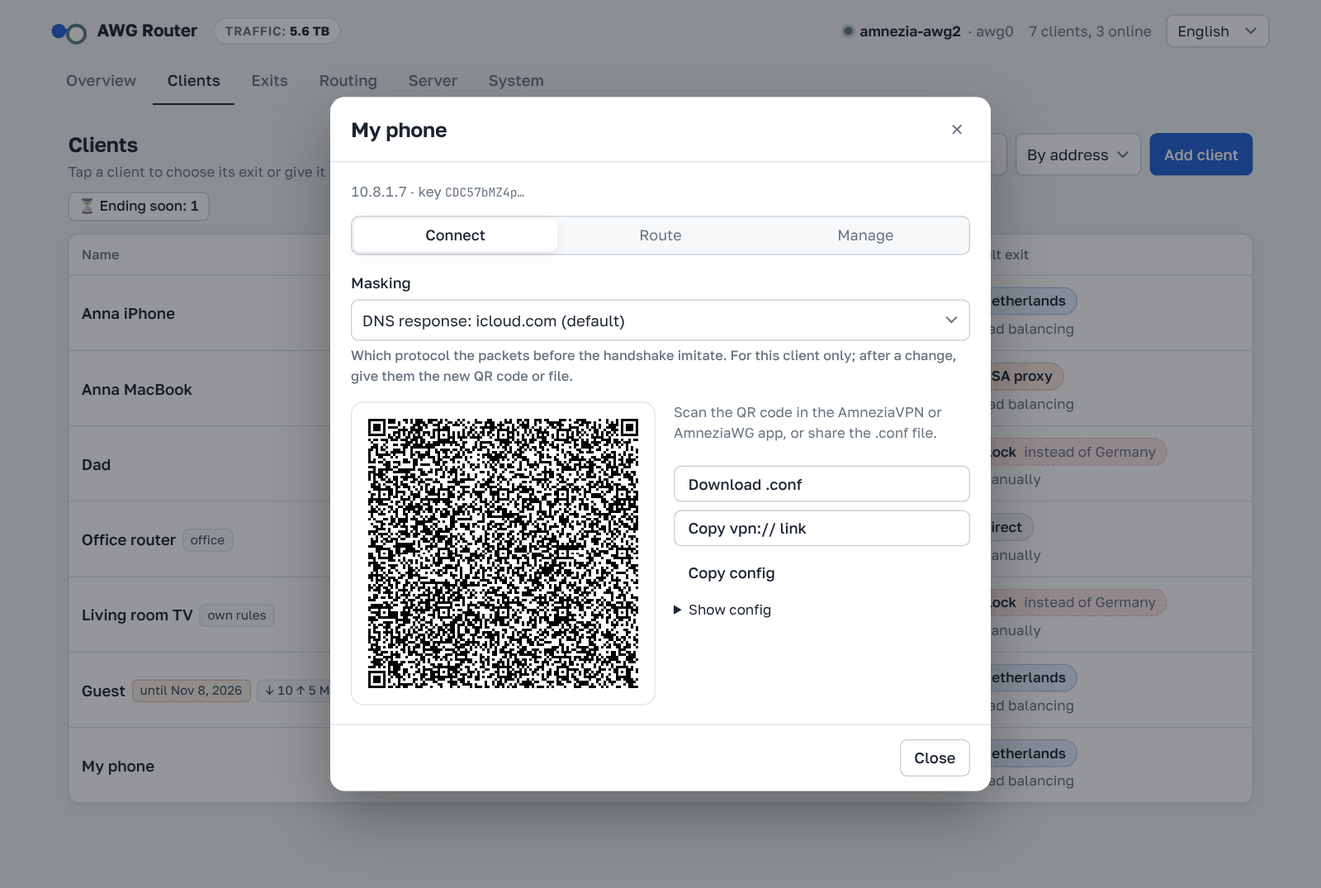
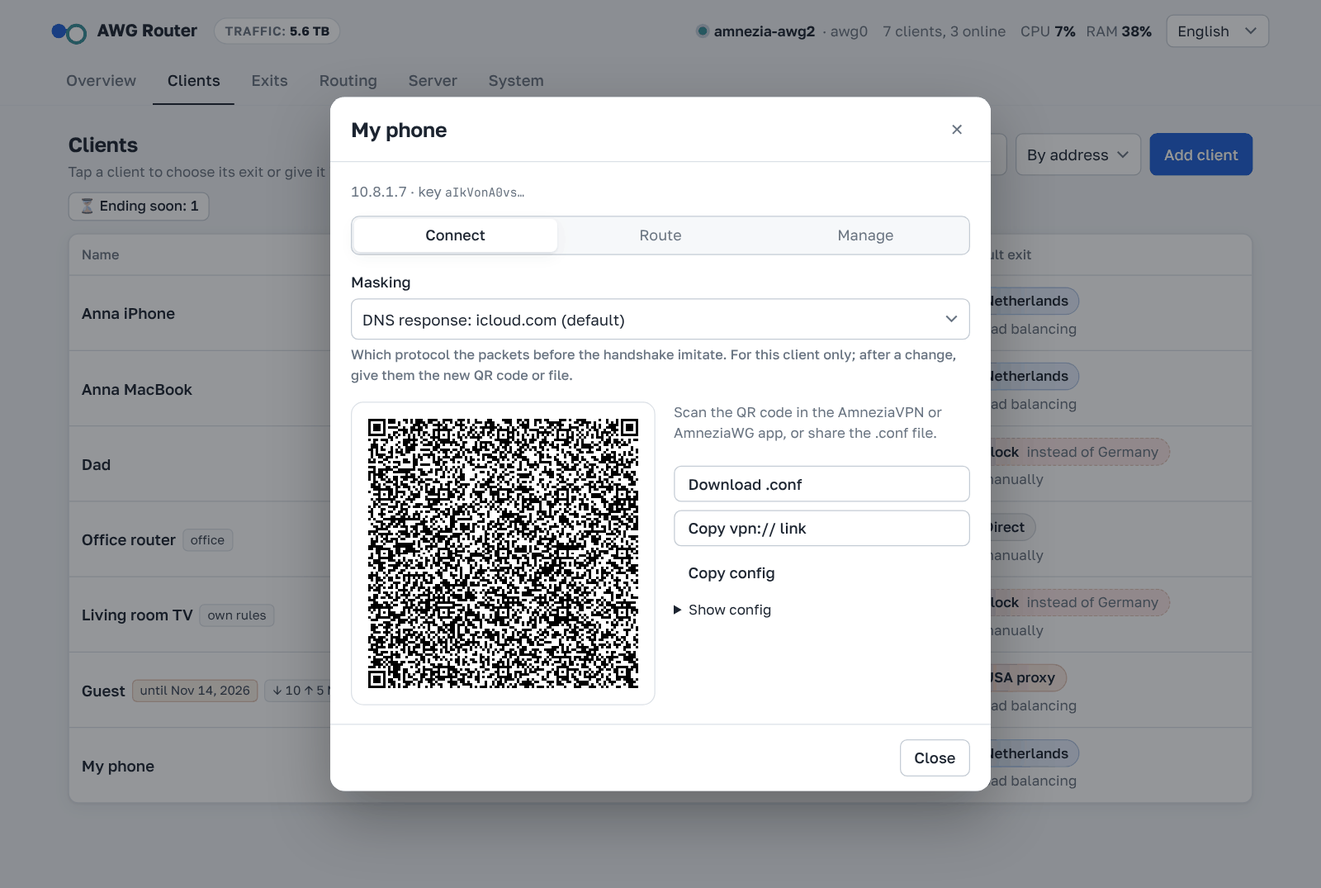
Status line: server CPU and memory load (1.20.0)
- hostnet.CpuMeter: CPU load between two reads of /proc/stat, not more
  often than MIN_GAP; hostnet.system_view adds cores, load average and
  memory. /api/state gets a small "system" entry (fixed numbers in demo).
- The status line shows CPU and RAM, 90% and above highlighted, details in
  the hint; texts in 4 languages.
- README screenshots and the install GIF retaken (the header changed).

diff --git a/app/static/i18n.js b/app/static/i18n.js
@@ -16,7 +16,9 @@ const I18N = {
     "tab.overview": "Обзор", "tab.clients": "Клиенты", "tab.exits": "Выходы",
     "tab.routing": "Маршрутизация", "tab.lists": "Списки", "tab.system": "Система",
     "n.clients": { one: "{n} клиент", few: "{n} клиента", many: "{n} клиентов", other: "{n} клиента" },
-    "status.online": "{n} в сети", "status.traffic": "ТРАФИК", "status.traffic_hint": "Через сервер прошло с момента установки панели",
+    "status.online": "{n} в сети", "status.traffic": "ТРАФИК", "status.traffic_hint": "Через сервер прошло с момента установки панели", "status.cpu": "ЦП", "status.ram": "ОЗУ",
+    "status.cpu_hint": "Загрузка процессора сервера. Ядер: {cores}, средняя нагрузка за 1, 5 и 15 минут: {load}",
+    "status.ram_hint": "Память сервера: занято {used} из {total}",
     "status.no_target": "Сервер Amnezia не найден", "panel.offline": "Нет связи с панелью: {e}",
     "banner.demo_title": "Демо-режим.",
     "banner.demo": "Команды не выполняются, клиенты и туннели вымышленные. Уберите {flag}, чтобы панель управляла сервером.",
@@ -177,7 +179,9 @@ const I18N = {
     "tab.overview": "Overview", "tab.clients": "Clients", "tab.exits": "Exits",
     "tab.routing": "Routing", "tab.lists": "Lists", "tab.system": "System",
     "n.clients": { one: "{n} client", other: "{n} clients" },
-    "status.online": "{n} online", "status.traffic": "TRAFFIC", "status.traffic_hint": "Passed through the server since the panel was installed",
+    "status.online": "{n} online", "status.traffic": "TRAFFIC", "status.traffic_hint": "Passed through the server since the panel was installed", "status.cpu": "CPU", "status.ram": "RAM",
+    "status.cpu_hint": "Server CPU load. Cores: {cores}; load average over 1, 5 and 15 minutes: {load}",
+    "status.ram_hint": "Server memory: {used} of {total} in use",
     "status.no_target": "Amnezia server not found", "panel.offline": "Can't reach the panel: {e}",
     "banner.demo_title": "Demo mode.",
     "banner.demo": "Nothing is executed; clients and tunnels are made up. Remove {flag} to let the panel manage the server.",
@@ -337,7 +341,9 @@ const I18N = {
     "tab.overview": "概览", "tab.clients": "客户端", "tab.exits": "出口",
     "tab.routing": "路由", "tab.lists": "列表", "tab.system": "系统",
     "n.clients": { other: "{n} 个客户端" },
-    "status.online": "{n} 个在线", "status.traffic": "流量", "status.traffic_hint": "自安装面板以来经过服务器的流量",
+    "status.online": "{n} 个在线", "status.traffic": "流量", "status.traffic_hint": "自安装面板以来经过服务器的流量", "status.cpu": "CPU", "status.ram": "内存",
+    "status.cpu_hint": "服务器 CPU 负载。核心数：{cores}；1、5、15 分钟平均负载：{load}",
+    "status.ram_hint": "服务器内存：已用 {used}，共 {total}",
     "status.no_target": "未找到 Amnezia 服务器", "panel.offline": "无法连接到面板：{e}",
     "banner.demo_title": "演示模式。",
     "banner.demo": "不会执行任何命令，客户端和隧道均为虚构。删除 {flag} 即可让面板管理服务器。",
@@ -497,7 +503,9 @@ const I18N = {
     "tab.overview": "نمای کلی", "tab.clients": "کلاینتها", "tab.exits": "خروجیها",
     "tab.routing": "مسیریابی", "tab.lists": "فهرستها", "tab.system": "سیستم",
     "n.clients": { one: "{n} کلاینت", other: "{n} کلاینت" },
-    "status.online": "{n} آنلاین", "status.traffic": "ترافیک", "status.traffic_hint": "ترافیک عبوری از سرور از زمان نصب پنل",
+    "status.online": "{n} آنلاین", "status.traffic": "ترافیک", "status.traffic_hint": "ترافیک عبوری از سرور از زمان نصب پنل", "status.cpu": "پردازنده", "status.ram": "حافظه",
+    "status.cpu_hint": "بار پردازندهٔ سرور. تعداد هستهها: {cores}؛ میانگین بار در ۱، ۵ و ۱۵ دقیقه: {load}",
+    "status.ram_hint": "حافظهٔ سرور: {used} از {total} در حال استفاده",
     "status.no_target": "سرور Amnezia پیدا نشد", "panel.offline": "ارتباط با پنل برقرار نیست: {e}",
     "banner.demo_title": "حالت نمایشی.",
     "banner.demo": "هیچ دستوری اجرا نمیشود و کلاینتها و تونلها ساختگی هستند. برای اینکه پنل سرور را مدیریت کند، {flag} را حذف کنید.",

diff --git a/app/static/app.js b/app/static/app.js
@@ -287,14 +287,30 @@ function renderBrandTraffic() {
   el.innerHTML = `${esc(t("status.traffic"))}: <b>${esc(fmtBytes(sum))}</b>`;
 }
 
+// процессор и память сервера — в строке состояния; 90 % и выше выделяются цветом
+function sysmonHtml() {
+  const m = S.system;
+  if (!m || (m.cpu == null && !m.mem)) return "";
+  const pct = (v) => `<b class="${v >= 90 ? "hot" : ""}"><bdi>${esc(fmtNum(Math.round(v)))}%</bdi></b>`;
+  const out = [];
+  if (m.cpu != null) {
+    const load = (m.load || []).map((x) => x.toLocaleString(LANG, { minimumFractionDigits: 2, maximumFractionDigits: 2 })).join(" · ");
+    out.push(`<span title="${esc(t("status.cpu_hint", { cores: m.cores ? fmtNum(m.cores) : "?", load: load || "—" }))}">${esc(t("status.cpu"))} ${pct(m.cpu)}</span>`);
+  }
+  if (m.mem && m.mem[1]) {
+    out.push(`<span title="${esc(t("status.ram_hint", { used: fmtBytes(m.mem[0]), total: fmtBytes(m.mem[1]) }))}">${esc(t("status.ram"))} ${pct(100 * m.mem[0] / m.mem[1])}</span>`);
+  }
+  return `<span class="sysmon">${out.join("")}</span>`;
+}
+
 function renderStatus() {
   const tg = S.target;
   const online = S.clients.filter((c) => c.live && c.live.handshake && S.now - c.live.handshake < 180).length;
   renderBrandTraffic();
   $("#status").innerHTML = tg
     ? `<span class="state"><span class="dot ${tg.exists === false ? "warn" : "ok"}"></span><b>${esc(tg.kind === "host" ? t("srv.kind_host") : tg.container)}</b> · ${esc(tg.iface)}</span>
-       <span>${esc(t("n.clients", { n: S.clients.length }) + sep("phrase") + t("status.online", { n: online }))}</span>`
-    : `<span class="state"><span class="dot bad"></span>${esc(t("status.no_target"))}</span>`;
+       <span>${esc(t("n.clients", { n: S.clients.length }) + sep("phrase") + t("status.online", { n: online }))}</span>${sysmonHtml()}`
+    : `<span class="state"><span class="dot bad"></span>${esc(t("status.no_target"))}</span>${sysmonHtml()}`;
   // новая версия: метка в строке состояния (видна и на телефоне) и точка на вкладке «Система»
   const v = S.version || {};
   const chip = updatingTo ? t("status.updating") : v.available ? t("status.update", { version: v.latest }) : "";

diff --git a/app/static/app.css b/app/static/app.css
@@ -90,6 +90,8 @@ h3 { font-size: 1rem; font-weight: 600; margin: 0; }
 .summary { margin: 0; padding-inline-start: 20px; display: grid; gap: 6px; }
 .status { display: flex; gap: 14px; flex-wrap: wrap; align-items: center; font-size: .88rem; color: var(--muted); }
 .status b { color: var(--ink); font-weight: 600; }
+.sysmon { display: inline-flex; gap: 10px; white-space: nowrap; }
+.sysmon b.hot { color: var(--bad); }
 .tabs {
   display: flex; gap: 2px; overflow-x: auto; scrollbar-width: none;
   padding: 0 max(16px, calc((100vw - 1180px) / 2)); border-bottom: 1px solid var(--rule);

diff --git a/app/hostnet.py b/app/hostnet.py
@@ -1,6 +1,9 @@
 """Адреса хоста без внешних запросов. Панель работает в сети хоста (network_mode: host),
 поэтому /proc/net здесь показывает сетевые интерфейсы и сокеты самого сервера."""
 import ipaddress
+import os
+import threading
+import time
 
 # флаги адреса в /proc/net/if_inet6: временный, ошибка DAD, устаревший, ещё проверяется
 _SKIP_FLAGS = 0x01 | 0x08 | 0x20 | 0x40
@@ -75,3 +78,58 @@ def memory(path: str = "/proc/meminfo") -> tuple[int, int] | None:
     if "MemTotal" not in vals or "MemAvailable" not in vals:
         return None
     return vals["MemTotal"] - vals["MemAvailable"], vals["MemTotal"]
+
+
+class CpuMeter:
+    """Загрузка процессоров сервера в процентах между двумя чтениями /proc/stat (не делится по
+    контейнерам — это весь хост). Чаще MIN_GAP не пересчитывает: опрос /api/state идёт с каждой вкладки."""
+    MIN_GAP = 1.0
+
+    def __init__(self, path: str = "/proc/stat"):
+        self.path = path
+        self._lock = threading.Lock()
+        self._prev = self._read()
+        self._at = time.monotonic()
+        self._pct: float | None = None
+
+    def _read(self) -> tuple[int, int] | None:
+        """(всего, простой) в тиках по строке «cpu»: простой — idle + iowait."""
+        try:
+            with open(self.path) as f:
+                v = [int(x) for x in f.readline().split()[1:]]
+        except (OSError, ValueError):
+            return None
+        if len(v) < 5:
+            return None
+        return sum(v[:8]), v[3] + v[4]          # guest уже входит в user — дальше 8 полей не считаем
+
+    def percent(self) -> float | None:
+        with self._lock:
+            now = time.monotonic()
+            if now - self._at < self.MIN_GAP and self._pct is not None:
+                return self._pct
+            cur = self._read()
+            if cur and self._prev and cur[0] > self._prev[0]:
+                total, idle = cur[0] - self._prev[0], cur[1] - self._prev[1]
+                self._pct = round(max(0.0, min(100.0, 100.0 * (total - idle) / total)), 1)
+            if cur:
+                self._prev, self._at = cur, now
+            return self._pct
+
+
+def loadavg(path: str = "/proc/loadavg") -> list[float] | None:
+    try:
+        with open(path) as f:
+            return [float(x) for x in f.read().split()[:3]]
+    except (OSError, ValueError):
+        return None
+
+
+cpu = CpuMeter()
+
+
+def system_view() -> dict:
+    """Шапка панели: процессор и память сервера. Маленький словарь — уходит в каждый /api/state."""
+    mem = memory()
+    return {"cpu": cpu.percent(), "cores": os.cpu_count(), "load": loadavg(),
+            "mem": list(mem) if mem else None}

diff --git a/tests/test_v120.py b/tests/test_v120.py
@@ -279,5 +279,41 @@ class TwoAddressCertTest(unittest.TestCase):
             main.store.mutate(lambda s: s["settings"].update({k: st.get(k, "") for k in ("public_host", "client_host")}))
 
 
+class SysMonTest(unittest.TestCase):
+    """Процессор и память сервера в шапке: загрузка между двумя чтениями /proc/stat."""
+
+    def stat(self, user, idle):
+        with open(self.path, "w") as f:
+            f.write(f"cpu  {user} 0 0 {idle} 0 0 0 0 0 0\ncpu0 1 2 3 4 5 6 7 8\n")
+
+    def setUp(self):
+        self.path = os.path.join(tempfile.mkdtemp(), "stat")
+
+    def test_percent_between_reads(self):
+        from app import hostnet
+        self.stat(100, 900)
+        m = hostnet.CpuMeter(self.path)
+        m.MIN_GAP = 0
+        self.stat(130, 970)                  # +30 работы, +70 простоя → 30 %
+        self.assertEqual(m.percent(), 30.0)
+        m.MIN_GAP = 3600
+        self.stat(200, 970)
+        self.assertEqual(m.percent(), 30.0)  # чаще MIN_GAP не пересчитывает
+        m.MIN_GAP = 0
+        self.assertEqual(m.percent(), 100.0)
+        self.assertEqual(m.percent(), 100.0)  # тиков не прибавилось — прежнее значение
+
+    def test_unreadable(self):
+        from app import hostnet
+        m = hostnet.CpuMeter(self.path + "-none")
+        self.assertIsNone(m.percent())
+
+    def test_in_state(self):
+        main.engine.reconcile()            # демо-сервер AWG как цель
+        st = main.get_state(None)
+        self.assertEqual(sorted(st["system"]), ["cores", "cpu", "load", "mem"])
+        self.assertLess(len(json.dumps(st["system"])), 120)      # /api/state опрашивается часто
+
+
 if __name__ == "__main__":
     unittest.main()

diff --git a/app/main.py b/app/main.py
@@ -1199,6 +1199,9 @@ def get_state(req):
         "shaping": engine.shape_state and {k: v for k, v in engine.shape_state.items() if k != "sig"},
         "direct_traffic": engine.traffic.out_view("direct"),
         "server_traffic": engine.traffic.server_view(),
+        # демо: постоянные числа — снимки README не меняются от загрузки машины, где их снимали
+        "system": {"cpu": 7.0, "cores": 2, "load": [0.14, 0.11, 0.09], "mem": [770 * 2**20, 2 * 2**30]}
+        if config.DRY_RUN else hostnet.system_view(),
         "acct": {"state": engine.acct_state, "error": engine.acct_error},
         "lists": [{**_list_view(l), "refs": Store.list_refs(st, l["id"])} for l in st["lists"]],
         "sni": engine.sni_view(),

diff --git a/release-notes/v1.20.0.md b/release-notes/v1.20.0.md
@@ -2,6 +2,8 @@
 
 ## What's changed
 
+- **CPU and memory in the status line.** Next to the client count the panel now shows how loaded the server's processor and memory are. 90% and above is highlighted; hover for the load average and how much memory is in use.
+
 - **The panel over IPv6.** The panel now opens over IPv6 as well as IPv4. An IPv6 address in **Server public address** now works the way this one field is meant to: the panel opens at it, gets its Let's Encrypt certificate for it, and clients connect to it unless you pick another address in **Address in configs**. The field's hint now explains this. The certificate now covers both the server's IPv4 and IPv6 addresses, so the panel opens without a warning at either. If Let's Encrypt can't check the second one (for example, port 80 is closed over it), the certificate covers the main address. Failed sign-ins from IPv6 are counted per /64 network, so changing the address does not get around the lockout. If your server's firewall has separate rules for IPv6, open the panel port there. Thanks to @paris19891 (#20).
 
 - **Let's Encrypt through a web server on port 80 works.** Since 1.14.0 the panel put its test file in the wrong folder, so validation through nginx, Apache or Caddy always failed with HTTP 404 and was rolled back. If port 80 on your server is taken by a web server, open **System → Domain and certificate** after the update and set up the validation again. Thanks to @xiaomiiraqly-alt (#21).
@@ -28,6 +30,8 @@ New install (Ubuntu or Debian, as root):
 
 ## Что изменилось
 
+- **Процессор и память в строке состояния.** Рядом с числом клиентов панель теперь показывает, насколько загружены процессор и память сервера. От 90 % значение выделяется цветом; в подсказке — средняя нагрузка и сколько памяти занято.
+
 - **Панель по IPv6.** Панель теперь открывается и по IPv6, а не только по IPv4. Адрес IPv6 во **«Внешнем адресе сервера»** теперь работает так, как задумано у этого одного поля: по нему открывается панель, на него она получает сертификат Let's Encrypt, и к нему же подключаются клиенты, если в **«Адрес в конфигах»** не выбран другой адрес. Подсказка у поля теперь это объясняет. Сертификат теперь выписывается сразу на IPv4 и IPv6 сервера, так что панель открывается без предупреждения по любому из них. Если Let's Encrypt не может проверить второй адрес (например, порт 80 по нему закрыт), сертификат будет на основной. Неудачные входы с IPv6 считаются по сети /64, поэтому сменой адреса блокировку не обойти. Если у файрвола сервера отдельные правила для IPv6, откройте там порт панели. Спасибо @paris19891 (#20).
 
 - **Let's Encrypt через веб-сервер на порту 80 работает.** С версии 1.14.0 панель клала проверочный файл не в ту папку, поэтому проверка через nginx, Apache или Caddy всегда заканчивалась ошибкой HTTP 404 и откатывалась. Если порт 80 на вашем сервере занят веб-сервером, после обновления откройте **«Система» → «Домен и сертификат»** и настройте проверку ещё раз. Спасибо @xiaomiiraqly-alt (#21).
@@ -53,6 +57,8 @@ New install (Ubuntu or Debian, as root):
 <summary><b>中文</b></summary>
 
 ## 改动
+
+- **状态栏显示 CPU 和内存。** 面板现在在客户端数量旁显示服务器处理器和内存的占用情况。达到 90% 及以上时会高亮显示；悬停可查看平均负载和已用内存。
 
 - **面板支持 IPv6。** 面板现在除 IPv4 外也可通过 IPv6 打开。**服务器公网地址** 中填写 IPv6 地址现在会按这个字段的本意工作：面板通过它打开，为它申请 Let's Encrypt 证书，客户端也连接到它，除非你在 **配置中的地址** 中另选地址。字段提示现在说明了这一点。证书现在同时签发给服务器的 IPv4 和 IPv6 地址，通过任一地址打开面板都不会出现警告。如果 Let's Encrypt 无法验证第二个地址（例如该地址的 80 端口被关闭），证书只签发给主地址。来自 IPv6 的登录失败按 /64 网络计数，更换地址无法绕过锁定。如果服务器防火墙对 IPv6 有单独的规则，请在其中开放面板端口。感谢 @paris19891（#20）。
 
@@ -81,6 +87,8 @@ New install (Ubuntu or Debian, as root):
 <div dir="rtl">
 
 ## تغییرها
+
+- **پردازنده و حافظه در نوار وضعیت.** پنل اکنون کنار تعداد کلاینتها نشان میدهد پردازنده و حافظهٔ سرور چقدر درگیرند. از <bdi>90%</bdi> به بالا رنگی میشود؛ راهنمای روی آن میانگین بار و مقدار حافظهٔ مصرفی را نشان میدهد.
 
 - **پنل با IPv6.** پنل اکنون علاوه بر IPv4 با IPv6 هم باز میشود. نشانی IPv6 در **آدرس عمومی سرور** اکنون همانطور کار میکند که این یک فیلد برایش طراحی شده است: پنل با آن باز میشود، گواهی Let's Encrypt را برای آن میگیرد و کلاینتها هم به آن وصل میشوند، مگر اینکه در **آدرس در پیکربندیها** نشانی دیگری انتخاب کنید. راهنمای فیلد اکنون همین را توضیح میدهد. گواهی اکنون هم برای IPv4 و هم برای IPv6 سرور صادر میشود، پس پنل با هر دو بدون هشدار باز میشود. اگر Let's Encrypt نتواند نشانی دوم را بررسی کند (مثلاً درگاه 80 روی آن بسته باشد)، گواهی فقط برای نشانی اصلی است. ورودهای ناموفق از IPv6 به ازای هر شبکهٔ <bdi>/64</bdi> شمرده میشوند، پس با عوض کردن نشانی نمیتوان از قفل گذشت. اگر دیوارهٔ آتش سرور برای IPv6 قانونهای جداگانه دارد، درگاه پنل را آنجا باز کنید. سپاس از <bdi>@paris19891</bdi> (<bdi>#20</bdi>).
 

diff --git a/README.fa.md b/README.fa.md
@@ -82,6 +82,7 @@ curl -fsSL https://raw.githubusercontent.com/r-slashslash/AWG-Router/main/instal
 - کلاینت غیرفعال بهصورت توضیح (کامنت) در پیکربندی میماند، تا کس دیگری نشانیاش را نگیرد.
 - ترافیک هر کلاینت در این ماه و از ابتدا، که با راهاندازی دوباره صفر نمیشود. مرتبسازی بر اساس نام، نشانی، ترافیک یا فعالیت.
 - ترافیک کل سرور از ابتدا، کنار نام پنل (با حذف کلاینتها کم نمیشود).
+- بار پردازنده و حافظهٔ سرور در نوار وضعیت پنل؛ راهنمای روی آن میانگین بار و مقدار حافظهٔ مصرفی را نشان میدهد.
 - تاریخ انقضا و سقف ترافیک (ماهانه یا کل). وقتی تمام شوند، کلاینت خودکار غیرفعال میشود؛ سقف ماهانه روز اول ماه ساعت 00:00 UTC صفر میشود (پنل نشان میدهد این به وقت شما کی است) و کلاینت دوباره فعال میشود. سه روز پیش از انقضا و در ۹۰٪ سقف هشدار میآید و فیلتر **«بهزودی تمام میشوند»** در فهرست کلاینتها نشان میدهد چه کسانی نزدیکاند.
 - محدودیت سرعت (تا وقتی تعیین نشود خاموش است): یک سقف برای همهٔ کلاینتها با هم، سقف اختصاصی هر کلاینت و سقف هر خروجی، دانلود و آپلود جداگانه. در سقف مشترک، سرعت بهطور مساوی بین کسانی که همین الان دانلود میکنند تقسیم میشود. اتصالها قطع نمیشوند، فقط اینترنت کندتر میشود و تأخیر زیر بار بالا نمیرود.
 - لینک شخصی: فرد آن را باز میکند، پیکربندی را دانلود یا کد QR را اسکن میکند و ترافیک و تاریخ انقضایش را میبیند — بدون ورود به پنل.

diff --git a/README.md b/README.md
@@ -69,6 +69,7 @@ Details are in [How routing works](#how-routing-works).
 - A disabled client stays in the config as a comment, so nobody else takes its address.
 - Traffic per client for the month and all time; it survives restarts. Sort by name, address, traffic or activity.
 - All-time traffic through the server next to the panel name (it stays when clients are deleted).
+- The server's CPU and memory load in the panel's status line; hover for the load average and how much memory is in use.
 - An end date and a traffic limit (per month or in total). When they run out, the client turns off by itself; a monthly limit resets on the 1st at 00:00 UTC (the panel shows when that is in your time) and the client turns back on. Three days before the end date and at 90% of the limit you get a warning, and **Ending soon** in the client list shows who is close.
 - Speed limits (off until you set them): a cap for all clients together, a personal cap per client and a cap per exit, download and upload separately. Within the common cap the speed is split evenly between those downloading right now. Connections don't drop, the internet just gets slower, and latency stays low under load.
 - A personal link: the person opens it, downloads their config or scans the QR code, and sees their traffic and end date — no panel sign-in.

diff --git a/CHANGELOG.md b/CHANGELOG.md
@@ -5,6 +5,10 @@ it grows, so every user-visible change gets a new version.
 
 ## 1.20.0 — 2026-11-14
 
+- **CPU and memory in the status line.** The panel's status line shows the server's CPU and memory load,
+  refreshed with the rest of the state; 90% and above is highlighted, and the hint has the load average and
+  the memory in use. CPU is measured between two reads of `/proc/stat` (`hostnet.CpuMeter`), so it is the whole
+  server, not the panel's container.
 - **The panel over IPv6.** The panel now listens on IPv6 as well as IPv4 (one socket for all addresses; IPv4
   only if the kernel has no IPv6), so an IPv6 server public address works as one field was meant to: the panel
   opens at it, gets its certificate for it and clients connect to it unless "Address in configs" picks another
